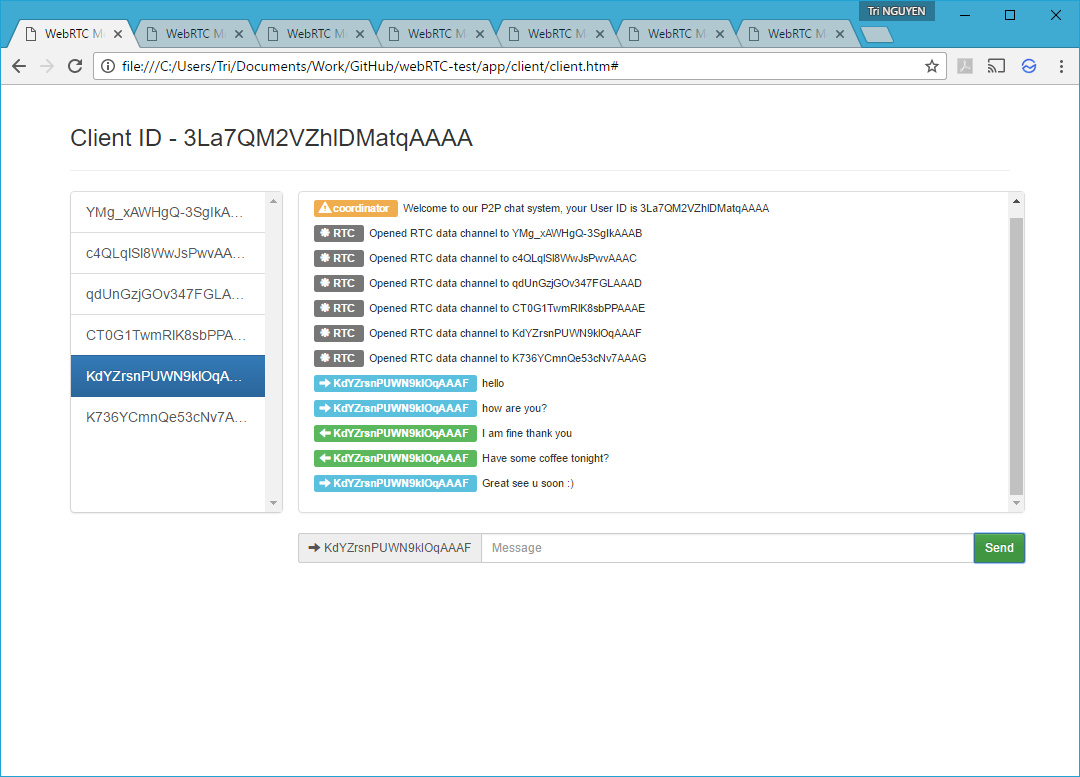
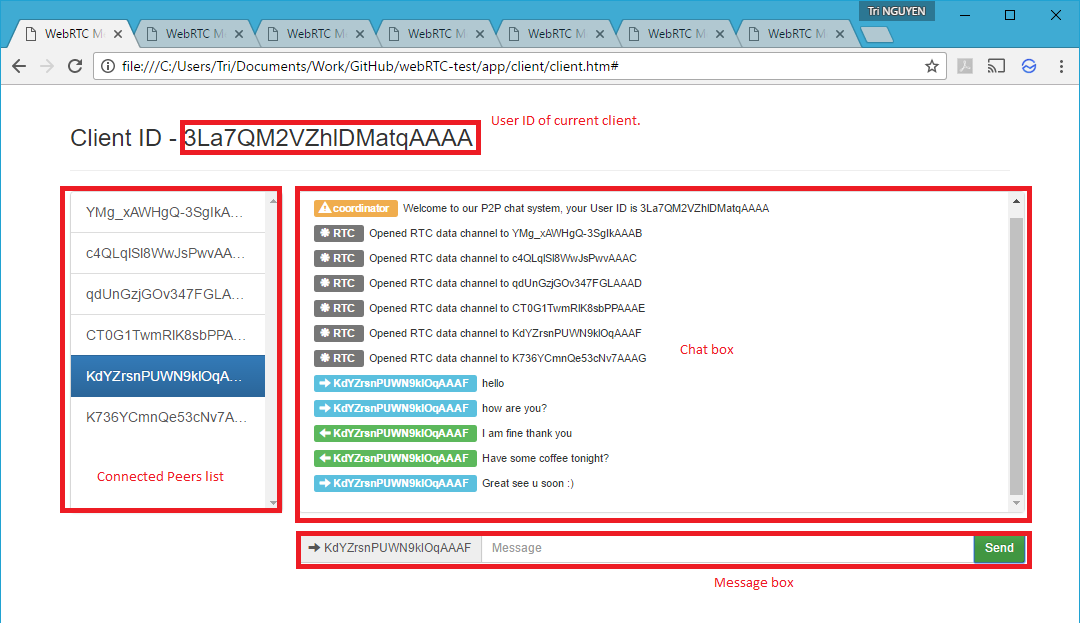
Update client docs.

Changed region(s): [[0.0, 0.0, 1.0, 0.9454]]

diff --git a/app/server/README.md b/app/server/README.md
@@ -22,4 +22,4 @@
 * Server relay "offer" to appropriate user or "error" back to requesting user if userID is not connected.
 * Target user send "answer" WebRTC response to server with requesting userID.
 * Server relay "answer" to request user.
-* Server relay apprproiate "icecandidate" to each user.
+* Server relay appropriate "icecandidate" to each user.

diff --git a/app/client/README.md b/app/client/README.md
@@ -28,3 +28,7 @@
 ## On receiving message from user input:
 
 * Append "userid: <message>" to messaging textbox.
+
+# P2P Client layout
+
+![Annotated client layout](https://raw.githubusercontent.com/tri170391/webRTC-test/master/app/client/client_screenshot.png)
